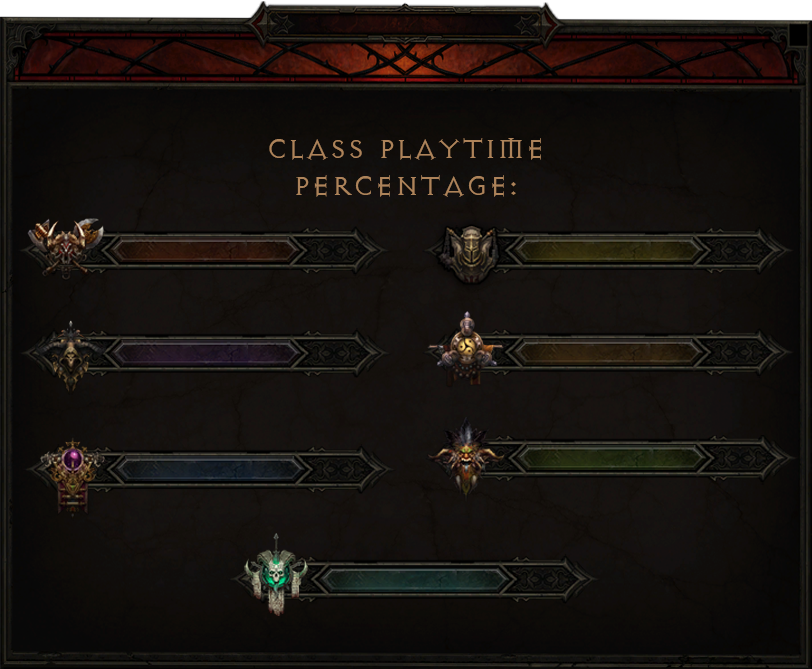
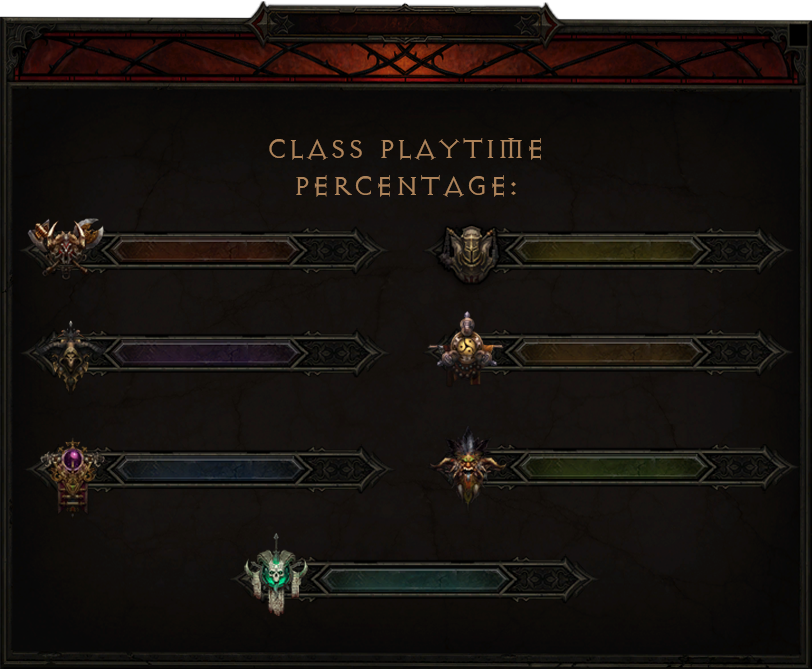
Allign wd gauge

Changed region(s): [[0.5234, 0.6278, 0.9852, 0.7474]]

diff --git a/src/image_processing/profile.cs b/src/image_processing/profile.cs
@@ -67,6 +67,16 @@ namespace d3bot.src.image_processing
 							new Font("Palatino Linotype", 16, FontStyle.Bold, GraphicsUnit.Point), 
 							new SolidBrush(Color.White), 315.86F, 462.0F);
 
+			percentage = Convert.ToInt32((Profile.timePlayed.witch_doctor / total) * 100);
+			GaugeCoord = new Rectangle(0, 0, (192 * percentage) / 100, 25);
+			g.DrawImage(Wd_gauge, 515, 457, GaugeCoord, GraphicsUnit.Pixel);
+			g.DrawString("Witch Doctor", 
+							new Font("Palatino Linotype", 12, FontStyle.Bold, GraphicsUnit.Point), 
+							new SolidBrush(Color.White), 532.98F, 435.8F);
+			g.DrawString($"{percentage}%", 
+							new Font("Palatino Linotype", 16, FontStyle.Bold, GraphicsUnit.Point), 
+							new SolidBrush(Color.White), 718.54F,  462.0F);
+
 			percentage = Convert.ToInt32((Profile.timePlayed.demon_hunter / total) * 100);
 			GaugeCoord = new Rectangle(0, 0, (193 * percentage) / 100, 25);
 			g.DrawImage(Dh_gauge, 108, 340, GaugeCoord, GraphicsUnit.Pixel);
@@ -86,16 +96,6 @@ namespace d3bot.src.image_processing
 			g.DrawString($"{percentage}%", 
 							new Font("Palatino Linotype", 16, FontStyle.Bold, GraphicsUnit.Point), 
 							new SolidBrush(Color.White), 718.54F, 241.96F);
-
-			percentage = Convert.ToInt32((Profile.timePlayed.witch_doctor / total) * 100);
-			GaugeCoord = new Rectangle(0, 0, (192 * percentage) / 100, 25);
-			g.DrawImage(Wd_gauge, 515, 445, GaugeCoord, GraphicsUnit.Pixel);
-			g.DrawString("Witch Doctor", 
-							new Font("Palatino Linotype", 12, FontStyle.Bold, GraphicsUnit.Point), 
-							new SolidBrush(Color.White), 532.98F, 424.45F);
-			g.DrawString($"{percentage}%", 
-							new Font("Palatino Linotype", 16, FontStyle.Bold, GraphicsUnit.Point), 
-							new SolidBrush(Color.White), 718.54F,  462.0F);
 
 			percentage = Convert.ToInt32((Profile.timePlayed.monk / total) * 100);
 			GaugeCoord = new Rectangle(0, 0, (194 * percentage) / 100, 24);
